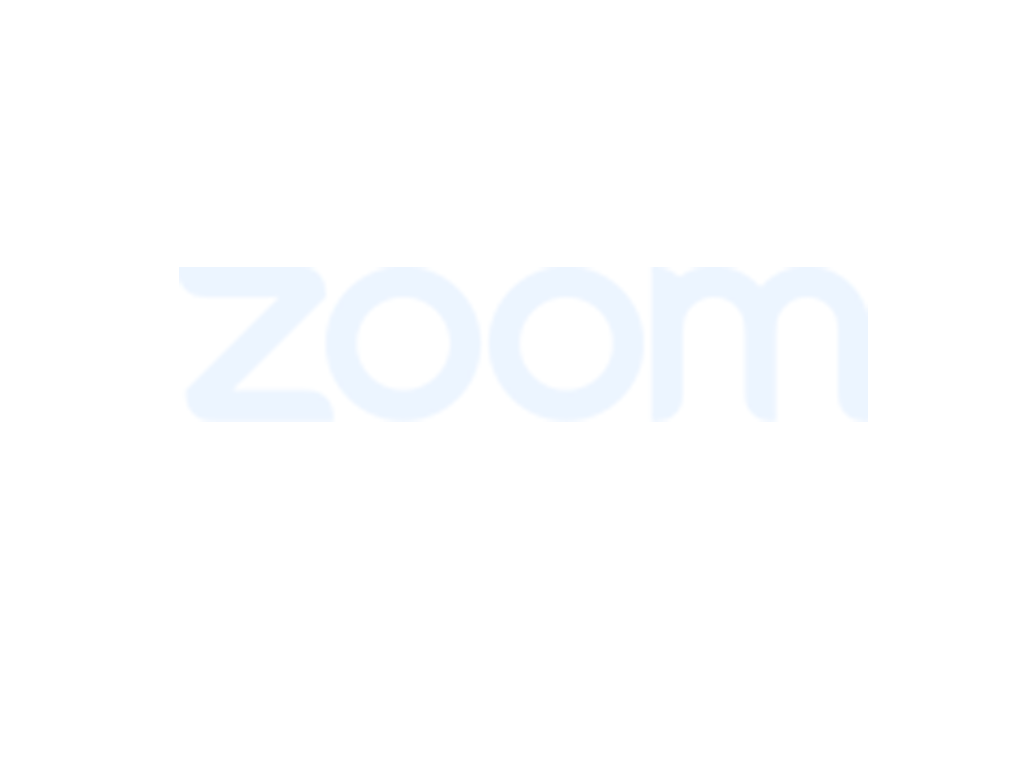
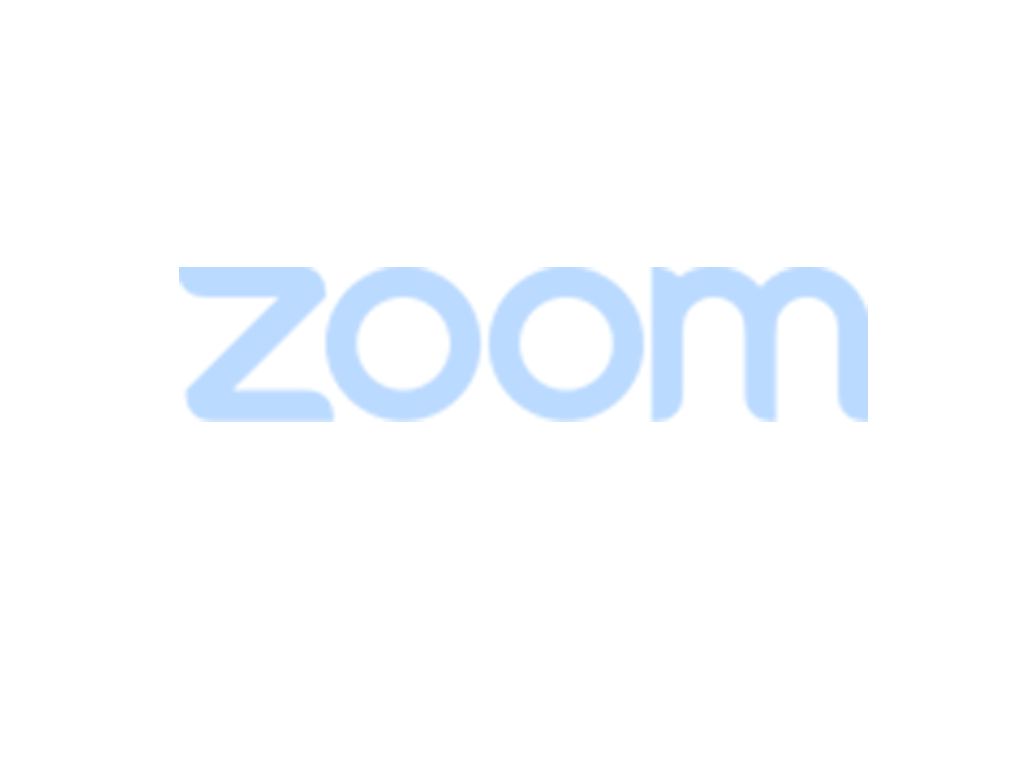
Survey form click

Changed region(s): [[0.1562, 0.3438, 0.875, 0.5625]]

diff --git a/classes/css/style.css b/classes/css/style.css
@@ -416,10 +416,15 @@ margin-bottom: 25px;
 .survey1{
     text-align: center;
     color: #ffffff;
-    background-color: #de5755;
+    background-color: #de5755; 
     padding: 25px;
-    border-radius: 20px;
-    background-image: url("../images/zoom.png");
+    border-radius: 15px;
+    background-image: url("../images/zoomLogo.png");
+    background-position-x:center;
+    background-position-y: 60px;
+    background-repeat: no-repeat;
+    background-size: 500px;
+    
 }
 
 
@@ -430,6 +435,8 @@ margin-bottom: 25px;
 
 .survey1 p{
   margin-top: 20px;
+  font-size: 12pt;
+  font-weight: 300;
 }
 
 
@@ -439,13 +446,14 @@ margin-bottom: 25px;
     text-align: center;
     color: #de5755;
     width: 200px;
-    line-height: 25px;
+    line-height: 20px;
     padding: 13px 16px;
     font-family: 'Open Sans', sans-serif;
+    font-weight: 500;
     font-size: 20px;
     border-radius: 50px;
-    -webkit-border-radius: 100px;
-    -moz-border-radius: 100px;
+    -webkit-border-radius: 10px;
+    -moz-border-radius: 10px;
     margin: 0px auto 0px auto;
     margin-top: 50px;
     transition: all .5s ease;

diff --git a/classes/index.html b/classes/index.html
@@ -320,7 +320,7 @@ from all over the world.
                  
 
                <h2>Join us in our programming course   </h2>
-               <p> You need an internet connection and a laptop.We use Zoom technologies
+               <p> You need an internet connection and a laptop.We use Zoom technologies <br>
                 to conduct our classes</p>
 
                 <a href="https://forms.gle/RyLCevdShpmjFEEd8"> Join Now</a>
